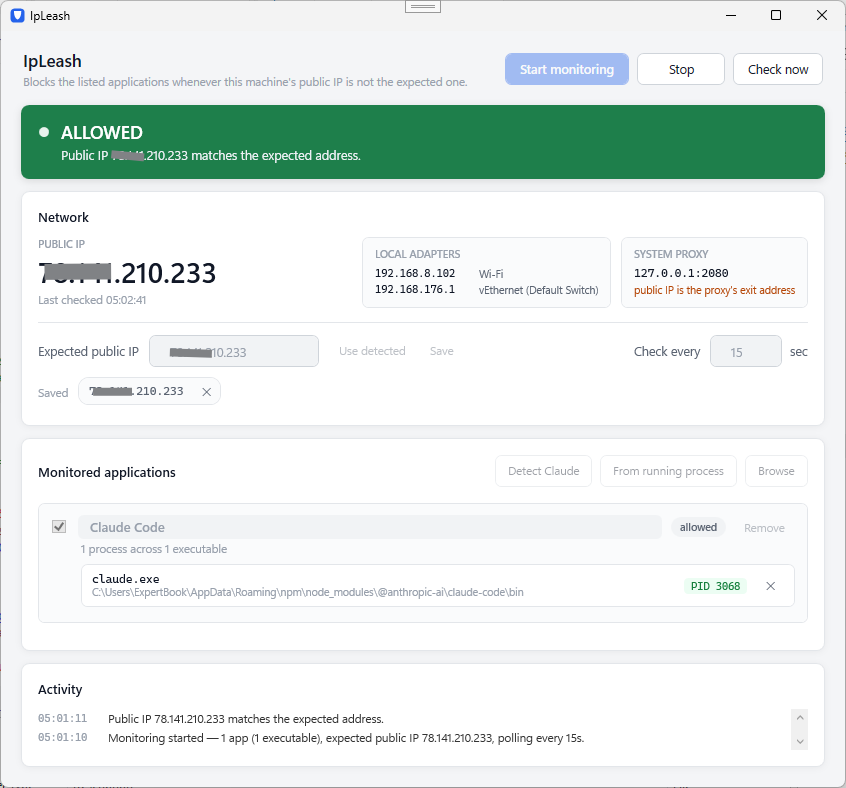
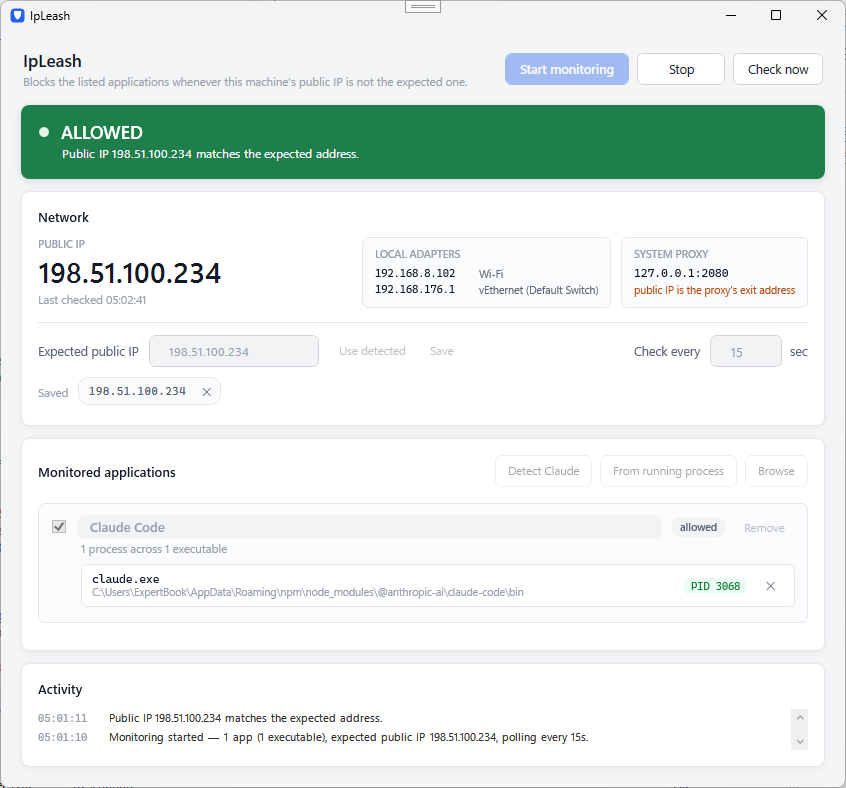
docs: update readme

diff --git a/README.md b/README.md
@@ -17,12 +17,8 @@ address, every monitored app stops talking to the internet until the expected IP
 
 ## Build and run
 
-From the repository root:
-
-```powershell
-dotnet build
-.\src\IpLeash\bin\Debug\net9.0-windows\IpLeash.exe
-```
+Run `dotnet build` from the repository root, then launch the built `IpLeash.exe` from
+`src\IpLeash\bin\Debug\net9.0-windows`. Windows will prompt for elevation.
 
 ## Behaviour worth knowing
 
@@ -55,26 +51,20 @@ words.
 
 ## How the block works
 
-Two rules per executable, sharing one name:
-
-```
-netsh advfirewall firewall add rule name="<RULE>" dir=out action=block program="<exe>" enable=yes profile=any
-netsh advfirewall firewall add rule name="<RULE>" dir=in  action=block program="<exe>" enable=yes profile=any
-```
-
-`<RULE>` is `IpLeash Block - <file name> [<8 hex>]`, where the hex is a hash of the full,
-normalized path. The name keeps it readable in `wf.msc`; the hash keeps it unique, because a list
-can hold two installs of the same executable name — an npm `claude.exe` and a native `claude.exe`
+Enforcement is Windows Firewall, driven through `netsh`. Each blocked executable gets a pair of
+rules — one outbound, one inbound — sharing a single name so one delete removes both. Rules are
+named `IpLeash Block - <file name> [<8 hex>]`, where the hex is a hash of the full normalized path:
+the file name keeps them readable in `wf.msc`, and the hash keeps them unique, because a list can
+hold two installs of the same executable name and an npm `claude.exe` and a native `claude.exe`
 would otherwise collide on one rule.
 
 Windows Firewall gives block rules precedence over allow rules, so this works even if the
-application already has allow rules of its own. netsh output is localized, so success is decided
-purely by exit code — the text is never parsed.
+application already has allow rules of its own.
 
 **Executables are screened before a rule is written.** netsh happily accepts a rule pointing at a
-`.cmd` launcher or a missing file, reports success, and blocks nothing. A silent no-op is the
-worst outcome for a kill-switch, so every candidate must exist, end in `.exe`, and start with the
-`MZ` DOS signature. Executables that go missing later are flagged in red on their row.
+`.cmd` launcher or a missing file, reports success, and blocks nothing. A silent no-op is the worst
+outcome for a kill-switch, so every candidate must exist, end in `.exe`, and start with the `MZ`
+DOS signature. Executables that go missing later are flagged in red on their row.
 
 **Crash recovery.** Rules are removed on exit, but a crash cannot run cleanup code. Active block
 paths are recorded in `%LOCALAPPDATA%\IpLeash\active-block.json`; on startup that file is read and
@@ -96,50 +86,3 @@ the corresponding rules deleted, so a killed process can never leave an app bloc
 - **With a proxy in the path, the expected IP is the proxy's, not the machine's.** IpLeash measures
   its own egress. If a monitored application routes differently, the address being compared is not
   the one that application exits from.
-
-## Architecture
-
-Strict MVVM, .NET 9, two Microsoft packages (`CommunityToolkit.Mvvm`,
-`Microsoft.Extensions.DependencyInjection`).
-
-```
-src/IpLeash/
-  App.xaml.cs            composition root; single-instance mutex, startup cleanup, teardown
-  Models/                settings and snapshot types
-  Services/              one interface + one implementation each
-    MonitorEngine.cs       the state machine: poll -> decide -> reconcile
-    FirewallService.cs     netsh add/delete/show, exit-code driven
-    AppDiscoveryService.cs Claude Code / Claude Desktop location probing
-    ProcessWatcher.cs      per-path PID matching + running-executable enumeration
-    PublicIpService.cs     three providers, 5 s timeout each
-    ProxyService.cs        WinINET registry + env vars + effective proxy for the probe URL
-    LocalIpService.cs      adapter enumeration
-    ExecutableFile.cs      .exe + MZ screening
-    SettingsStore.cs       JSON settings, tolerant of a corrupt file
-    BlockStateStore.cs     crash-recovery record
-  ViewModels/            no WPF types, not even ICollectionView
-  Views/                 MainWindow, ProcessPickerWindow (+ empty code-behinds), Converters/
-    Styles/Theme.xaml    every colour, radius, font and control template
-```
-
-The rules the code is held to:
-
-- Both windows' code-behind contain `InitializeComponent()` and nothing else; the XAML has no
-  event handlers. Dialogs close via the `DialogCloser` attached property.
-- `Closing` is subscribed in `App`, not in the window. Hiding versus quitting is a lifetime
-  decision, and lifetime belongs to the composition root.
-- `MonitorEngine` has no UI awareness. It uses `System.Timers.Timer`, not `DispatcherTimer`, so it
-  is never pinned to the UI thread; the ViewModel marshals via a captured `SynchronizationContext`.
-- Evaluation is serialized by a `SemaphoreSlim`, because the poll timer and `NetworkAddressChanged`
-  can otherwise fire together and issue conflicting netsh calls.
-- Every service sits behind an interface, so the engine can be tested without a firewall or a
-  network.
-- Views never spell out a colour; buttons and text inputs are templated rather than restyled,
-  since the stock WPF chrome has a gradient and a 3 px corner no property setter removes.
-- **Lists are a `ScrollViewer` plus an `ItemsControl`, never a `ListBox`.** A ListBox measures
-  items against infinite width, which silently disables `TextWrapping` and star-sized columns —
-  long text then clips mid-word instead of wrapping. That is a real hazard for the activity log,
-  whose most important messages (`FAILED TO BLOCK …`) are also its longest.
-- `Assets/*.ico` are generated: one mark in five colours at 16/24/32/48/64 px, as 32bpp DIBs
-  rather than PNG-in-ICO — GDI+ cannot rasterise PNG frames, and `NotifyIcon` takes a
-  `System.Drawing.Icon`, so a PNG-framed file loads without error and then shows no tray image.
